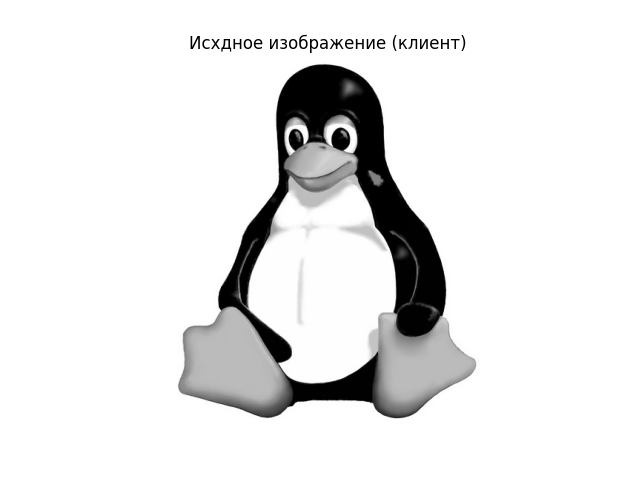
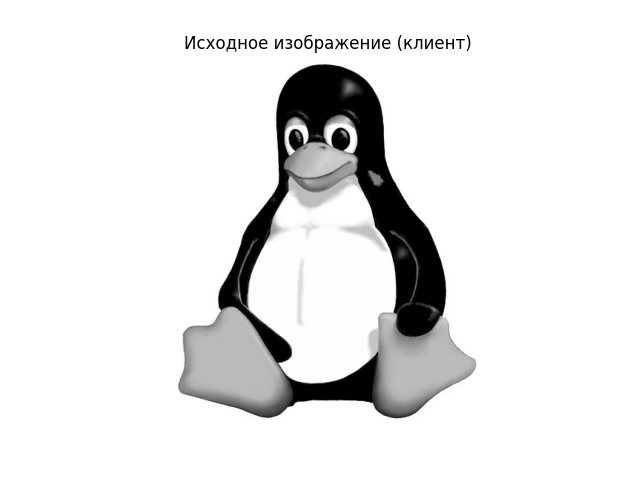
fix cllient image

Changed region(s): [[0.2812, 0.0625, 0.75, 0.125]]

diff --git a/Lab1/modules/client.py b/Lab1/modules/client.py
@@ -51,7 +51,7 @@ def client_run(host: str, server_port: int, chunk_size: int) -> None:
         try:
             image_path: str = input("Введите путь до изображения: ")
             gray_image_path = save_to_grayscale(image_path)
-            show_image(gray_image_path, "Исхдное изображение (клиент)")
+            show_image(gray_image_path, "Исходное изображение (клиент)")
             client.send_data(gray_image_path)
             sleep(10)
         except FileNotFoundError:
